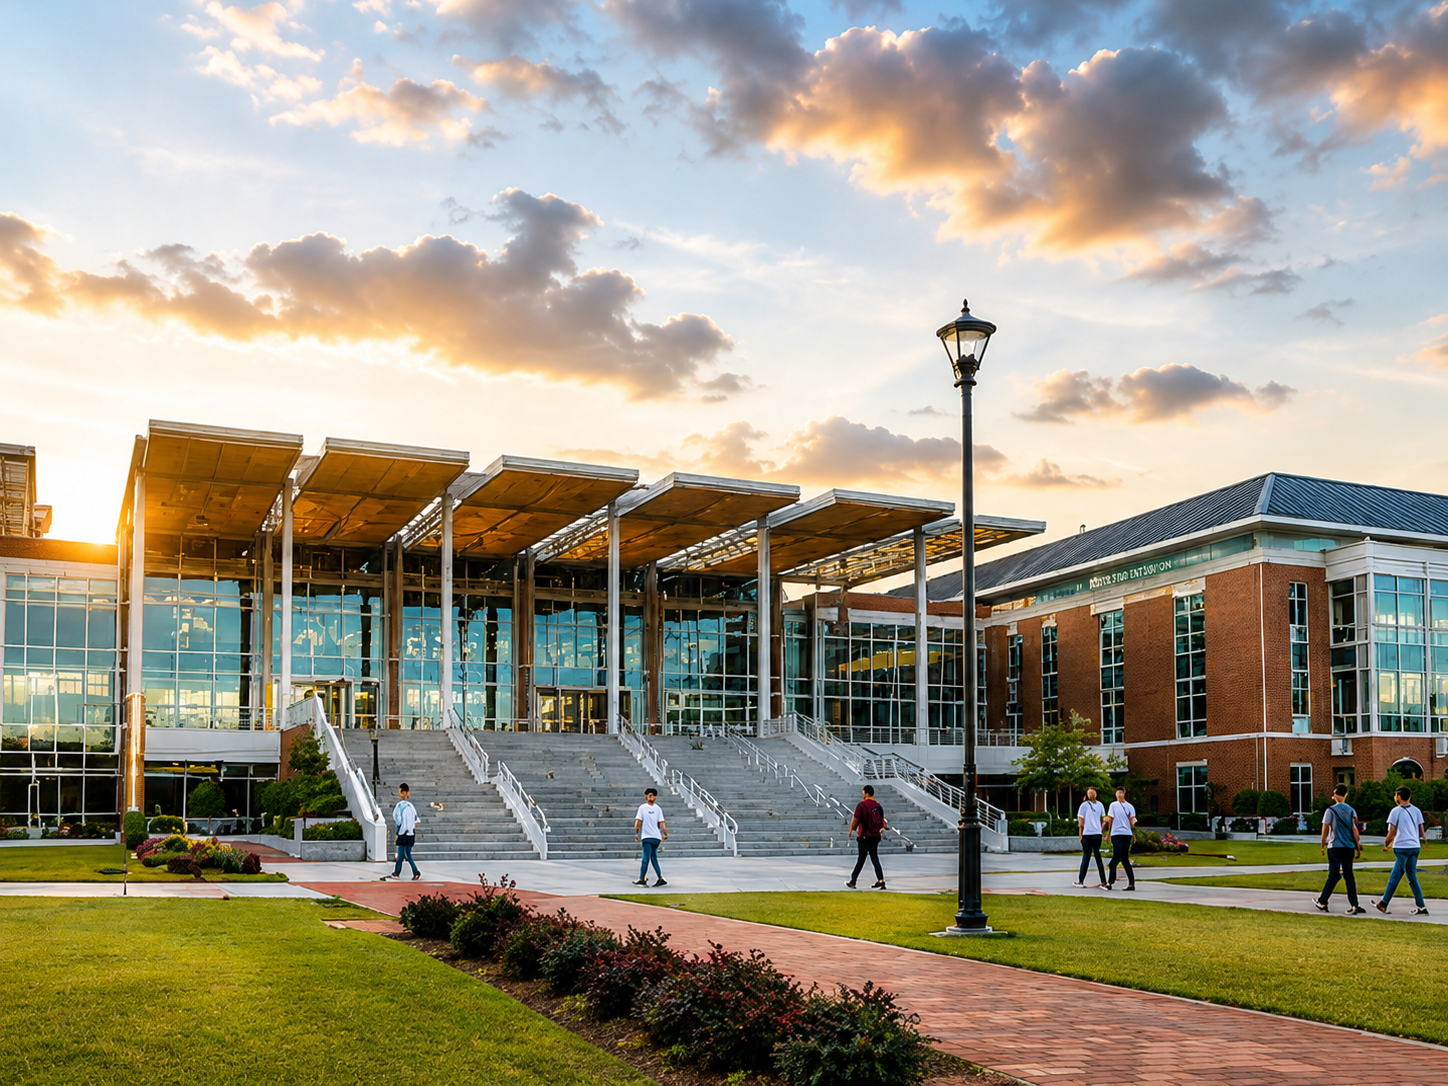
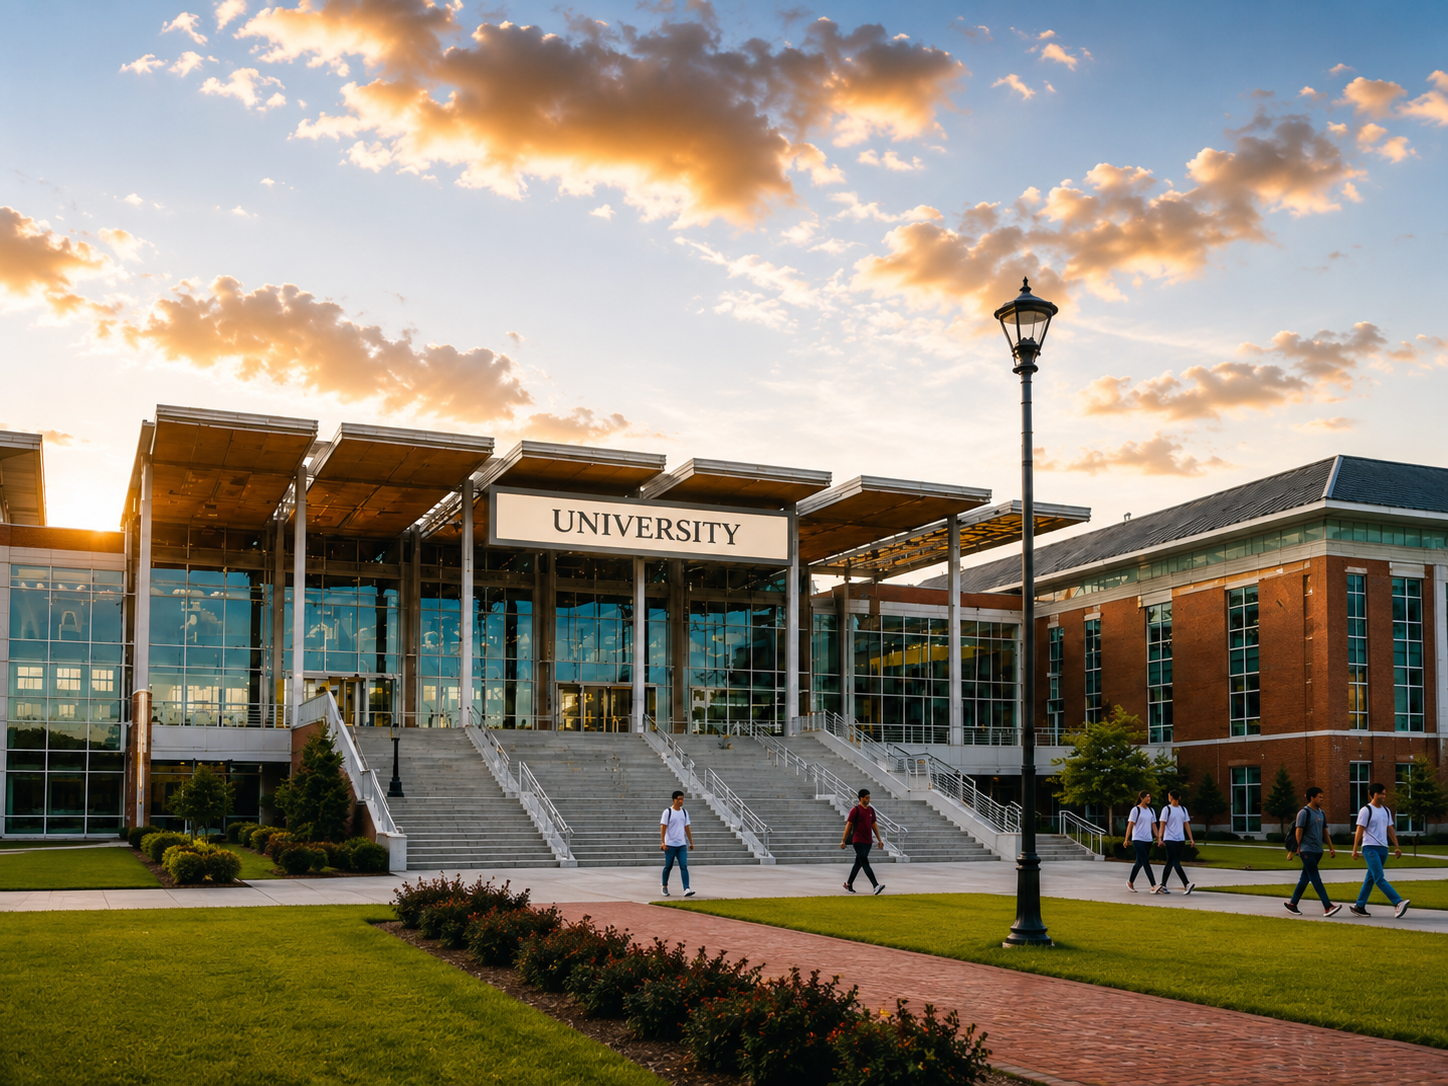
Portfolio: refreshed Commercial / Education / Government / Industrial photos + lowercase Government filename
Client supplied replacement photos for four of the nine sector
tiles.  Content bytes updated for commercial.png, education.png,
industrial.png, and government.png.

Government.png was also renamed to lowercase to match the naming
convention of the other eight tiles — done via a two-step git mv
through a temp name because APFS is case-insensitive and git
otherwise wouldn't record the case change (which GitHub Pages'
case-sensitive Linux fs needs to serve the file).  The url() in
portfolio-track-record.html updated to point at the lowercase
filename to match.

Data Centre, Infrastructure, Medical, Oil & Gas, and Residential
photos are untouched from the previous batch.

diff --git a/portfolio-track-record.html b/portfolio-track-record.html
@@ -808,7 +808,7 @@ html { scroll-padding-top: 80px; }
         </div>
       </article>
       <article class="ind-card">
-        <div class="ind-card-img" style="background-image:url(assets/Portfolio/Government.png);"></div>
+        <div class="ind-card-img" style="background-image:url(assets/Portfolio/government.png);"></div>
         <div class="ind-card-body">
           <span class="ind-card-tag">High Compliance</span>
           <h3 class="ind-card-title">Government</h3>
